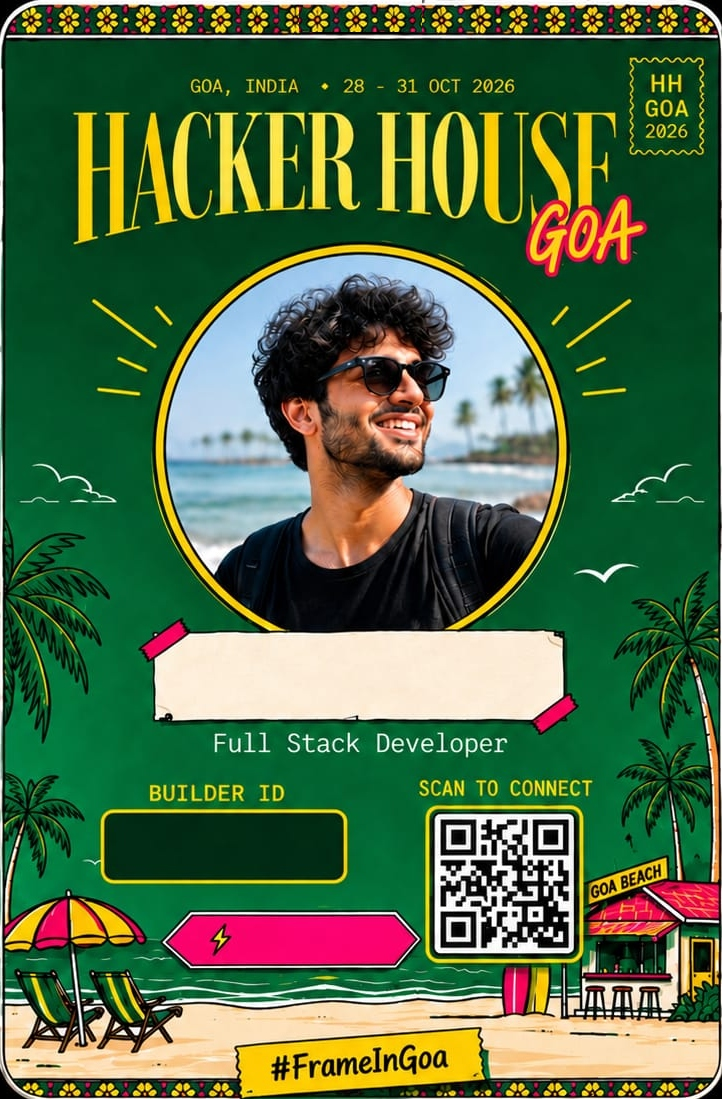
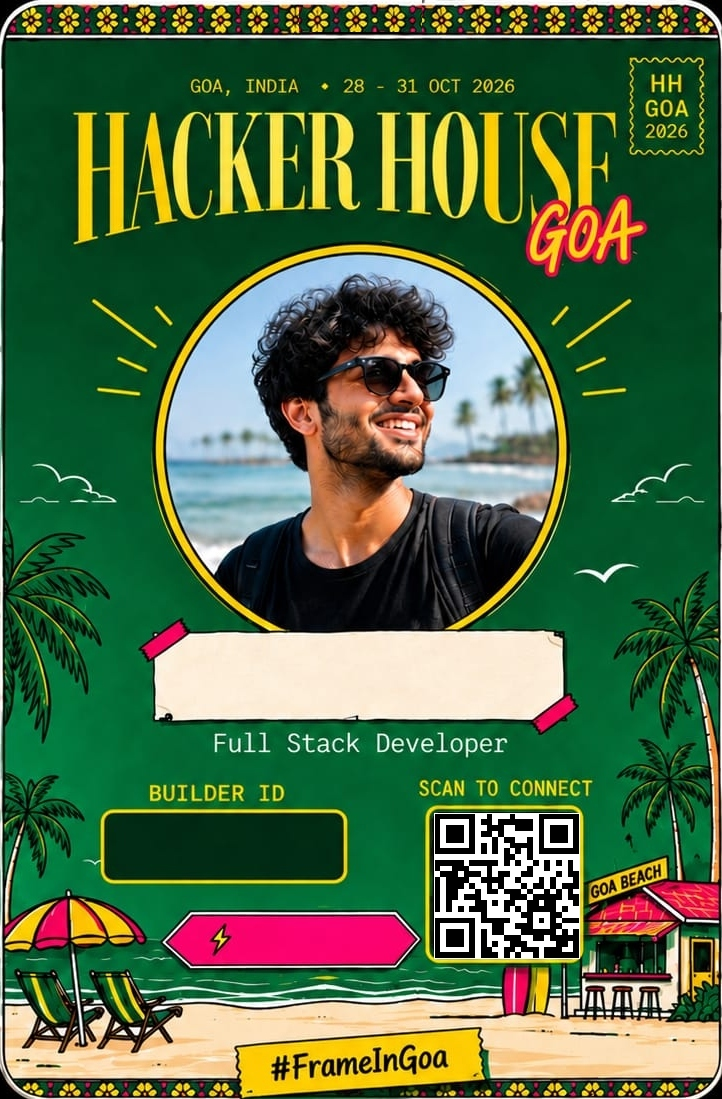
Embed scannable QR code linking to https://hhgoa.com/ on Front Pass template and canvas renderer

Changed region(s): [[0.5789, 0.7425, 0.8227, 0.8972]]

diff --git a/app.js b/app.js
@@ -20,12 +20,15 @@ document.addEventListener('DOMContentLoaded', () => {
   backTemplate.src    = 'backf.jpeg';
   const pfpFrameTemplate = new Image();
   pfpFrameTemplate.src   = 'pfp_frame.png';
+  const qrTemplate = new Image();
+  qrTemplate.src   = 'qr_hhgoa.png';
 
   let loaded = 0;
-  const onLoad = () => { if (++loaded >= 3) renderAll(); };
+  const onLoad = () => { if (++loaded >= 4) renderAll(); };
   frontTemplate.onload    = onLoad;
   backTemplate.onload     = onLoad;
   pfpFrameTemplate.onload = onLoad;
+  qrTemplate.onload       = onLoad;
 
   /* ── App state ───────────────────────────────────── */
   let currentView = 'front'; // 'front', 'back', or 'pfp'
@@ -244,6 +247,11 @@ document.addEventListener('DOMContentLoaded', () => {
       frontCtx.shadowOffsetY = 1;
       frontCtx.fillText(fs.tag.trim().toUpperCase(), 0, 0);
       frontCtx.restore();
+    }
+
+    // 6. Scannable QR code pointing to https://hhgoa.com/
+    if (qrTemplate.complete && qrTemplate.naturalWidth) {
+      frontCtx.drawImage(qrTemplate, 434, 813, 146, 146);
     }
   }
 

diff --git a/index.html b/index.html
@@ -17,7 +17,7 @@
   <script src="https://cdnjs.cloudflare.com/ajax/libs/jszip/3.10.1/jszip.min.js"></script>
   <script src="https://cdnjs.cloudflare.com/ajax/libs/FileSaver.js/2.0.5/FileSaver.min.js"></script>
   
-  <link rel="stylesheet" href="styles.css?v=1.0.9">
+  <link rel="stylesheet" href="styles.css?v=1.1.0">
 </head>
 <body>
   <div class="app-container">
@@ -318,6 +318,6 @@
     </main>
   </div>
 
-  <script src="app.js?v=1.0.9"></script>
+  <script src="app.js?v=1.1.0"></script>
 </body>
 </html>
